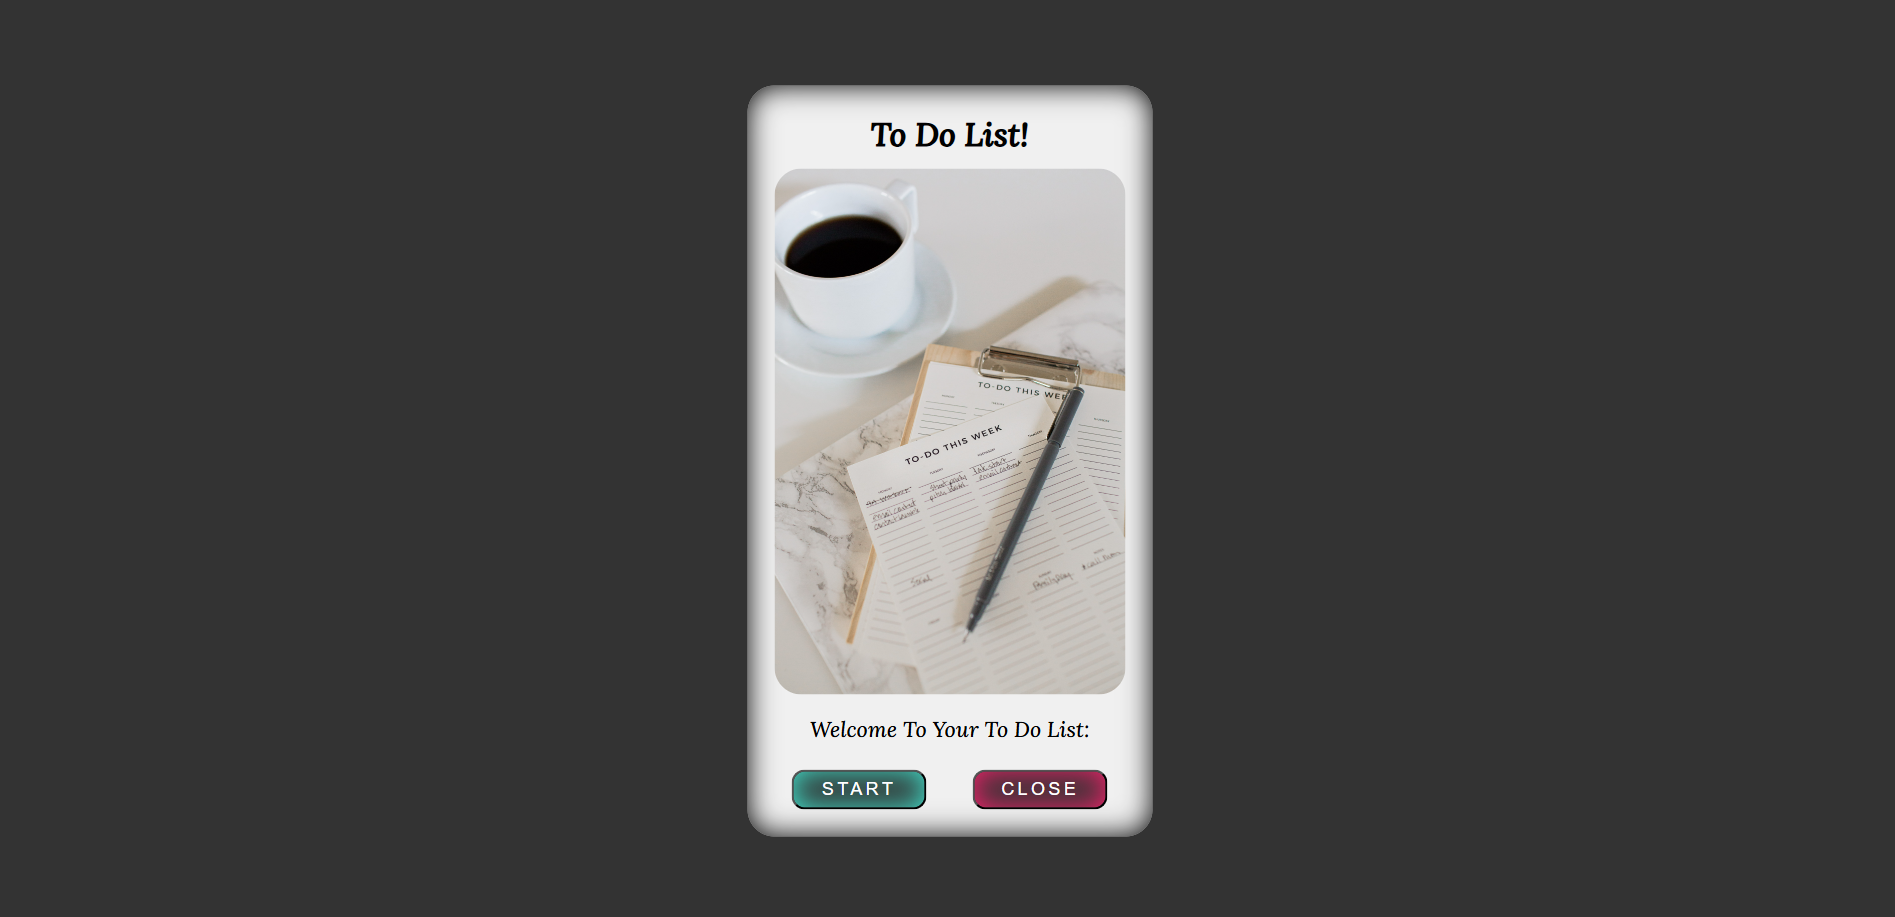
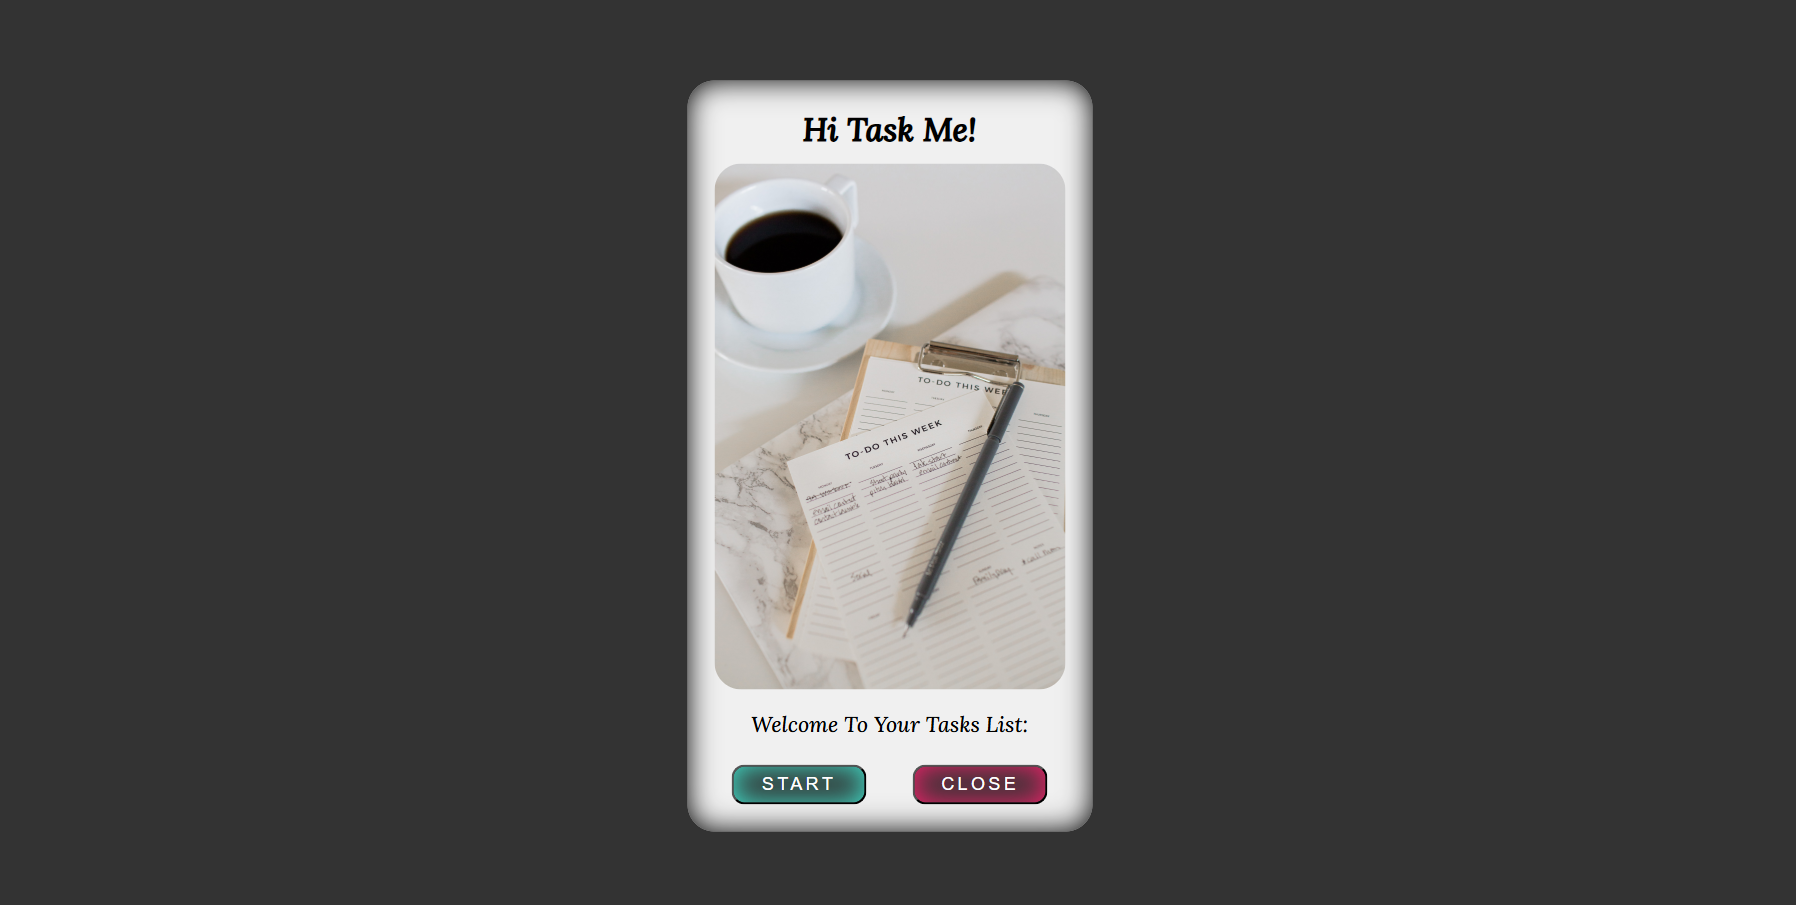
edit ProjectItems.jsx changes in id:2 project Hi Task Me + added its new image

Changed region(s): [[0.3742, 0.0619, 0.6236, 0.9282], [0.4365, 0.1238, 0.5612, 0.1856]]

diff --git a/src/components/ProjectsItems.jsx b/src/components/ProjectsItems.jsx
@@ -18,10 +18,10 @@ const ProjectsItems = [
     {
         id: 2,
         projectImg: Img2,
-        projectTitle: 'To-Do List',
+        projectTitle: 'Hi Task Me',
         projectDescription: 'This application assists users in managing their tasks and tracking daily progress on various projects. It is developed using Vanilla JavaScript.',
-        liveProjectLink: 'https://alakeldev.github.io/to-do-list-app/',
-        repoLink: 'https://github.com/alakeldev/to-do-list-app'
+        liveProjectLink: 'https://alakeldev.github.io/hi-task-me-app/',
+        repoLink: 'https://github.com/alakeldev/hi-task-me-app'
     },
     {
         id: 3,
